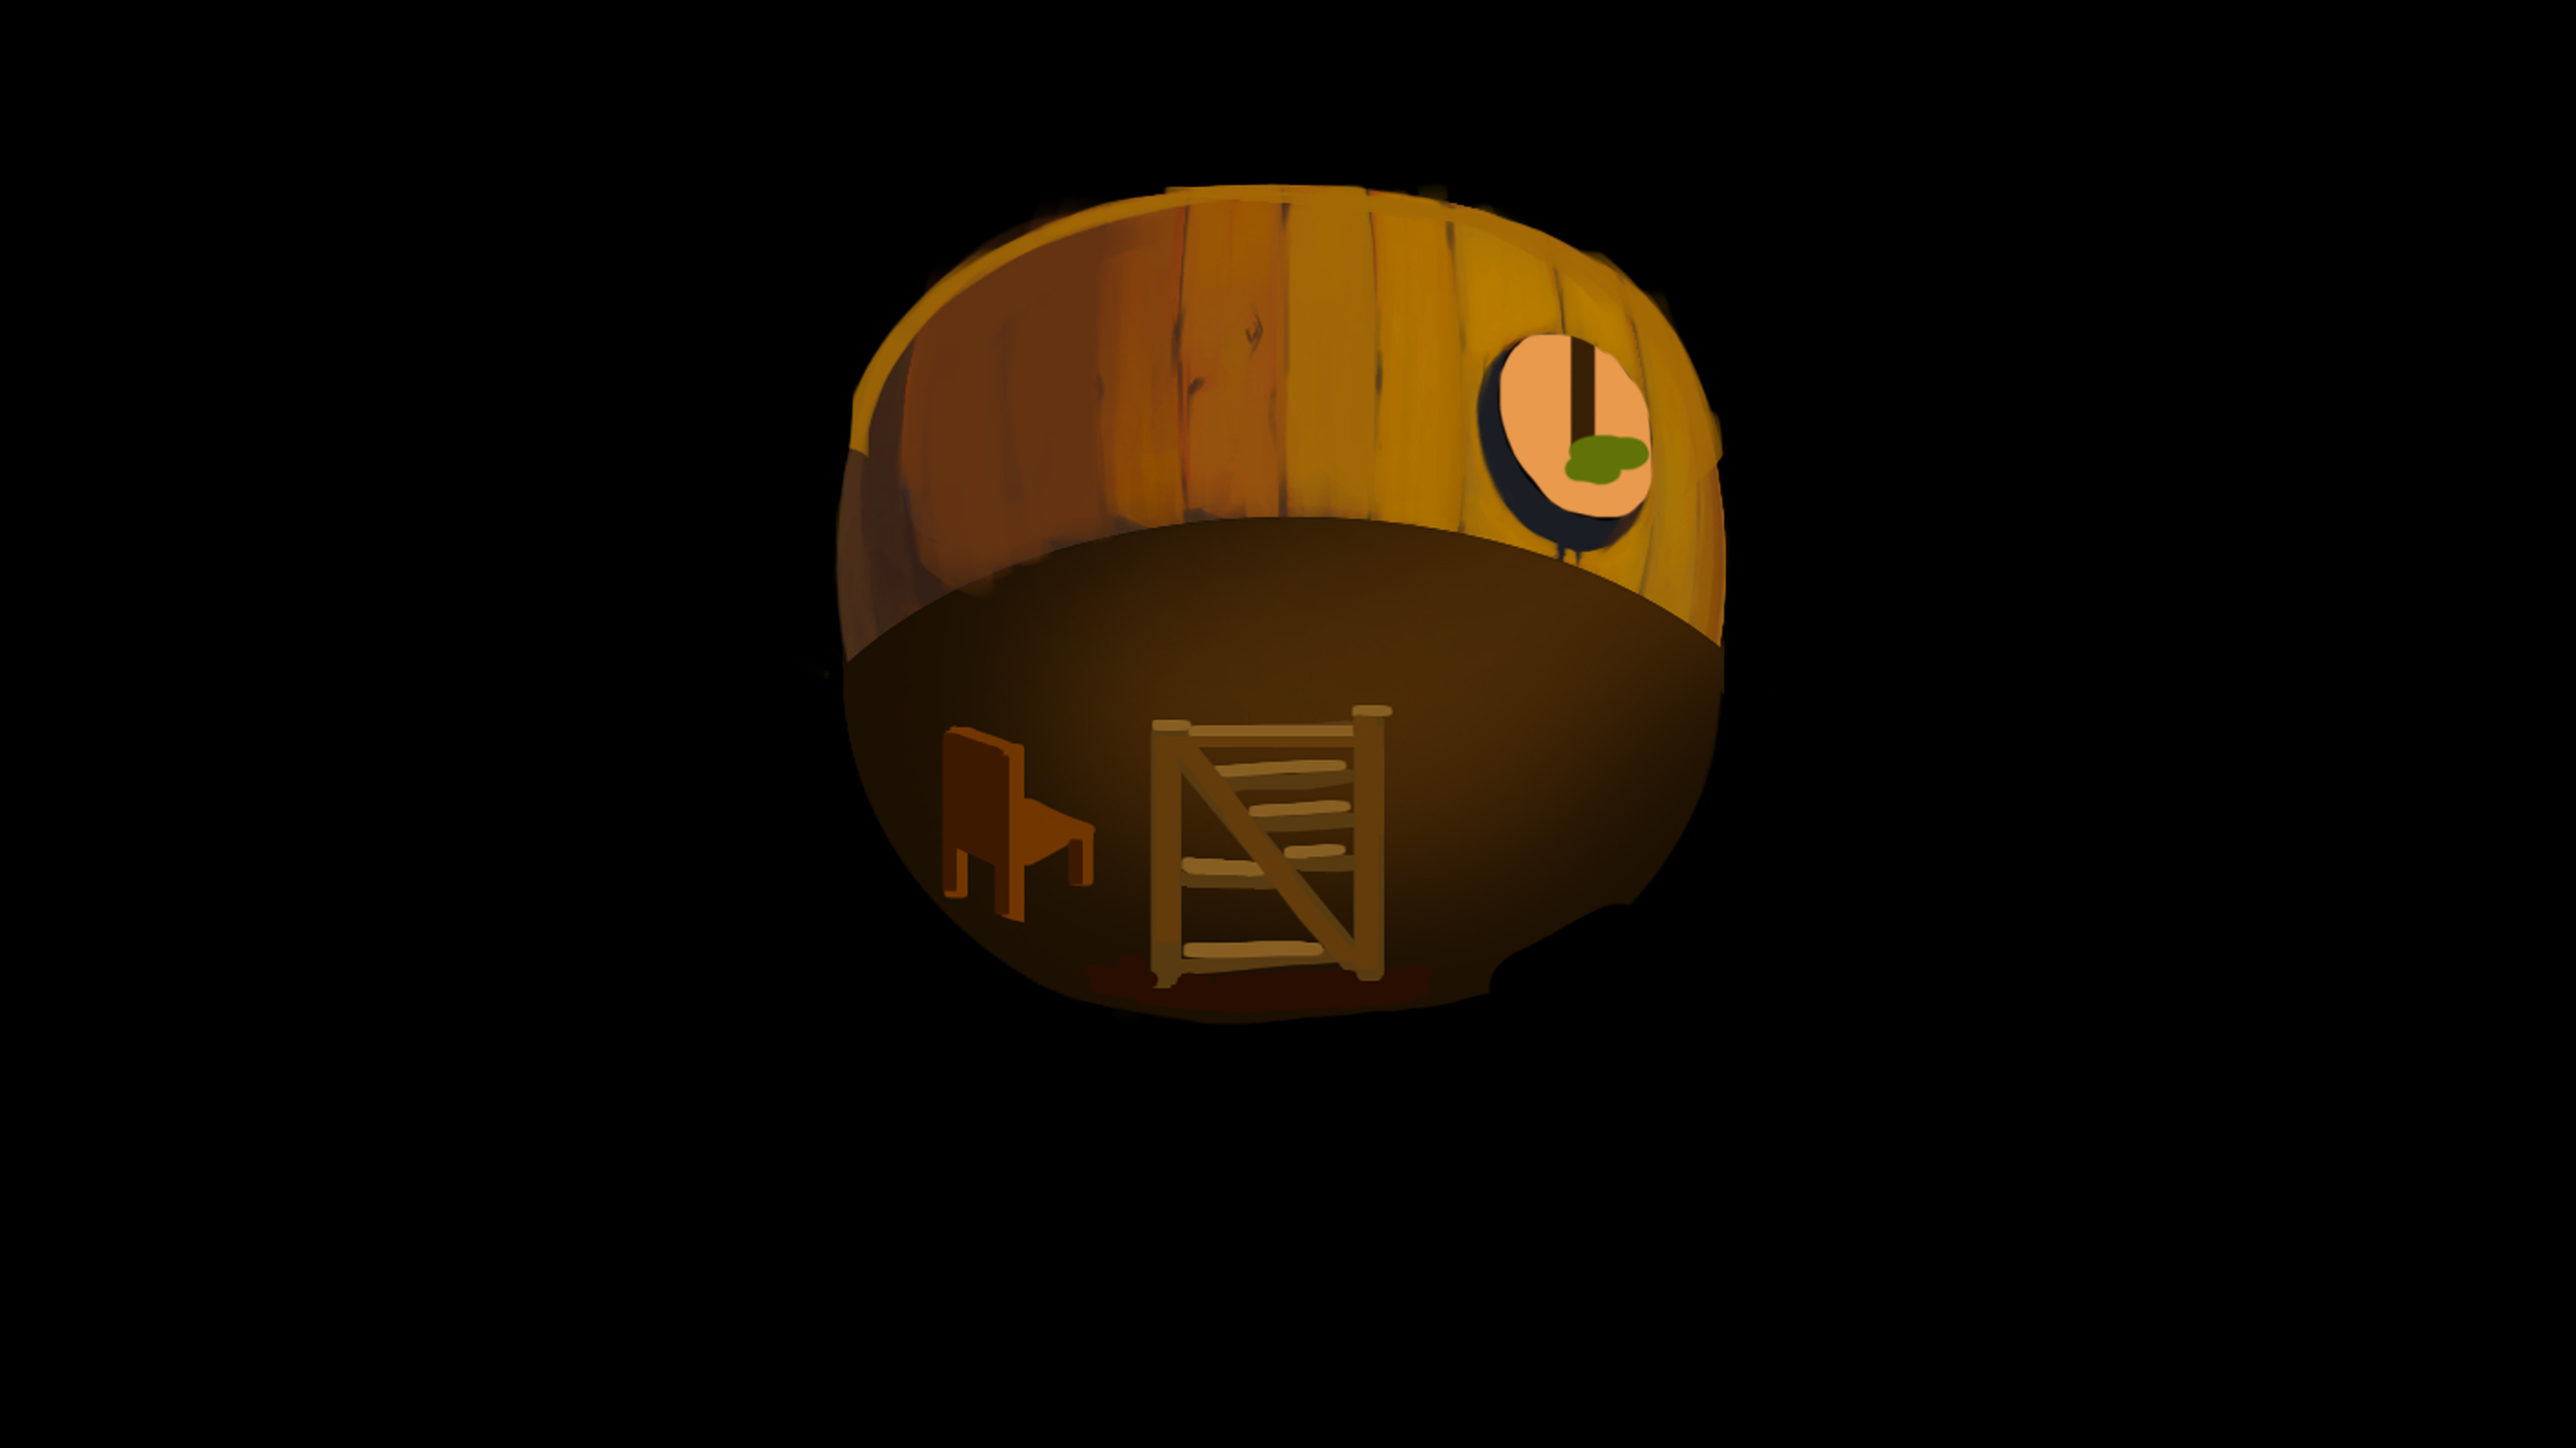
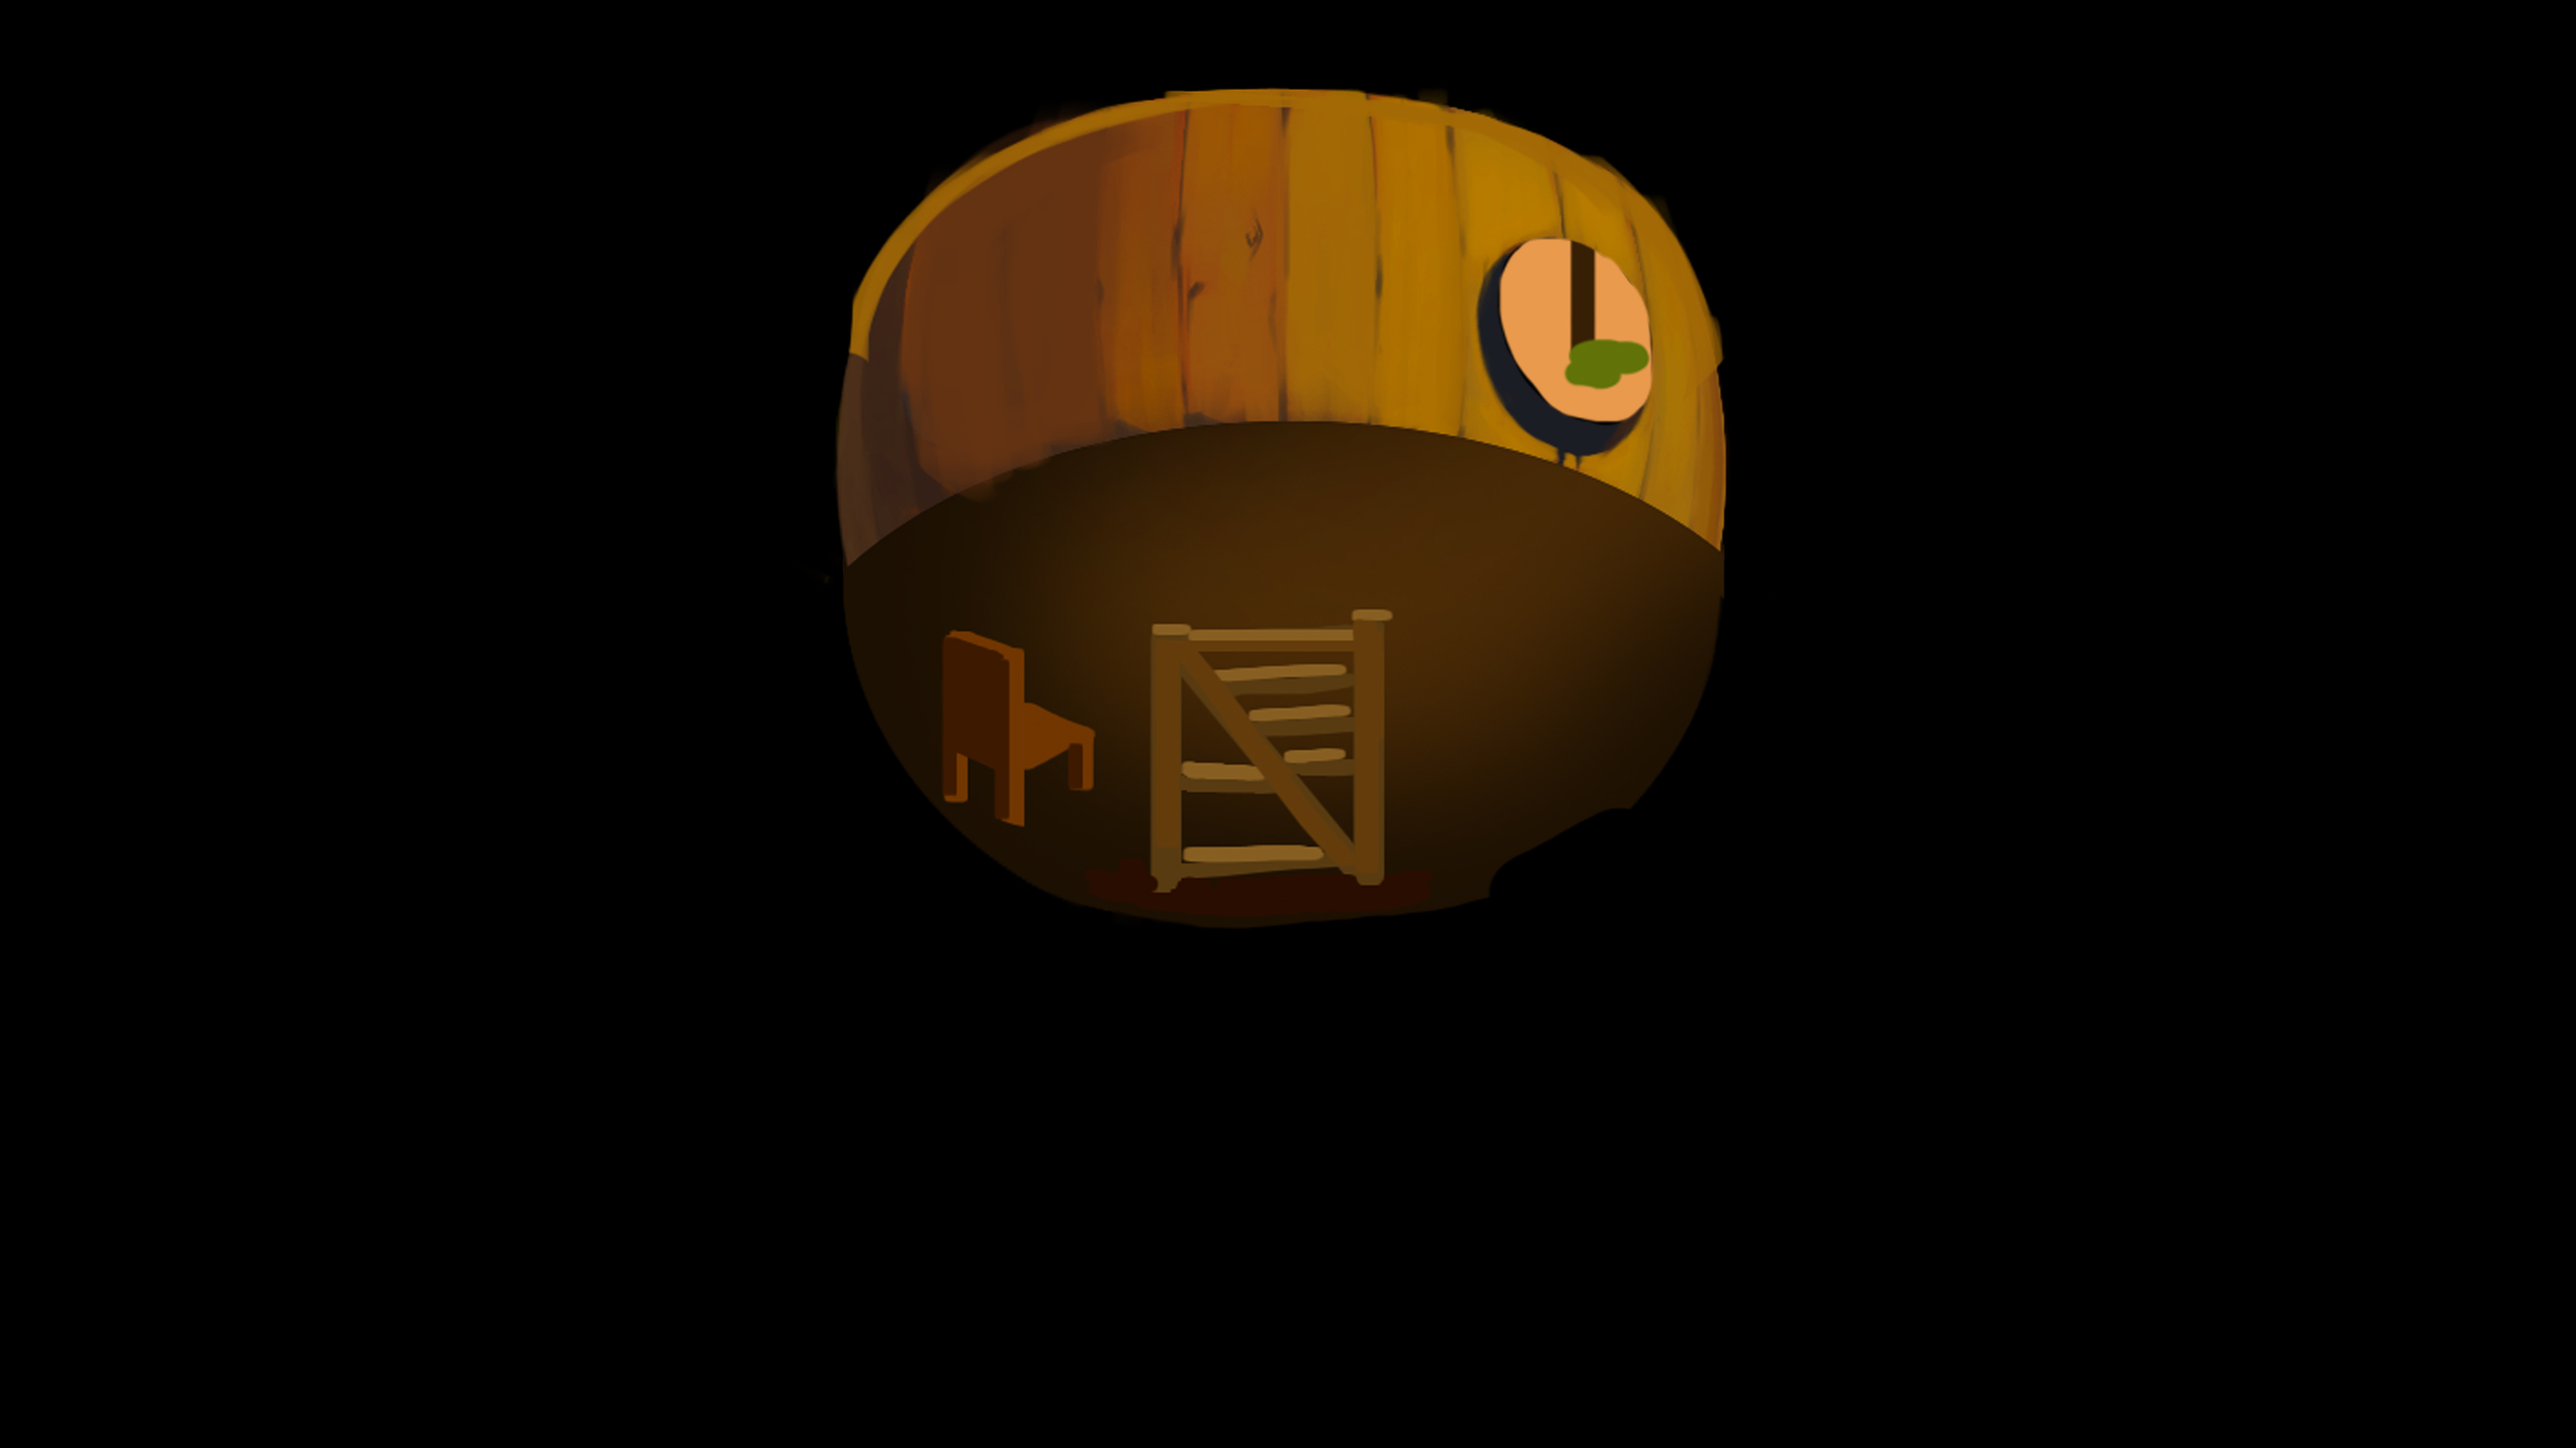
fix (movment): Fix movment in Alfrd's House
see above

Changed region(s): [[0.3123, 0.0621, 0.687, 0.7145]]

diff --git a/Scripts/Isometric2D.rb b/Scripts/Isometric2D.rb
@@ -10,7 +10,6 @@ class Sprite_Character < Sprite_Base
 
   def initialize(viewport, character = nil)
     super(viewport)
-    #@debug = QDebug.new
     @character = character
     @balloon_duration = 0
     @character_bitmap_name = ''
@@ -108,7 +107,6 @@ class Game_CharacterBase
   # * Initialize Public Member Variables
   #--------------------------------------------------------------------------
   def init_public_members
-    #@debug = QDebug.new
     @id = 0
     @x = 0
     @y = 0
@@ -138,12 +136,16 @@ class Game_CharacterBase
   # * Get Screen X-Coordinates
   #--------------------------------------------------------------------------
   def screen_x
+    p "screen_x"
+    p @real_x.to_s
     ($game_map.adjust_x(@real_x) - $game_map.adjust_y(@real_y)) * TILE_WIDTH_HALF + (Graphics.width / 2)
   end
   #--------------------------------------------------------------------------
   # * Get Screen Y-Coordinates
   #--------------------------------------------------------------------------
   def screen_y
+    p "screen_y"
+    p @real_y.to_s
     ($game_map.adjust_x(@real_x) + $game_map.adjust_y(@real_y)) * TILE_HEIGHT_HALF + SPACE_BETWEEN_CHARACTERN_PATTERN - jump_height - TILE_HEIGHT_HALF + (Graphics.height / 2)
   end
 
@@ -189,7 +191,6 @@ end
 class Spriteset_Map
 
   def initialize
-    #@debug = QDebug.new
     create_viewports
     create_tilemap
     create_parallax
@@ -229,14 +230,13 @@ end
 
 class Game_Map
 
-  MAP_DATA_OFFSET_X_TO_ADJUST_MAP_ORIGIN = 118
+  TILE_OFFSET_X_IN_MAP_DATA = 2
   MAP_DATA_OFFSET_Y_TO_ADJUST_MAP_ORIGIN = 15
 
   #--------------------------------------------------------------------------
   # * Object Initialization
   #--------------------------------------------------------------------------
   def initialize
-    #@debug = QDebug.new
     @screen = Game_Screen.new
     @interpreter = Game_Interpreter.new
     @map_id = 0
@@ -375,7 +375,10 @@ class Game_Map
   end
 
   def map_tile_adjust_xy(x, y)
-    tile_x = (2 * (x - y)) + MAP_DATA_OFFSET_X_TO_ADJUST_MAP_ORIGIN
+    parallax_bitmap = Cache.parallax(@parallax_name)
+    map_data_offset_x_to_adjust_map_origin = (parallax_bitmap.width / TILE_WIDTH_HALF) / 2 - TILE_OFFSET_X_IN_MAP_DATA
+
+    tile_x = (2 * (x - y)) + map_data_offset_x_to_adjust_map_origin
     tile_y = (x + y) + MAP_DATA_OFFSET_Y_TO_ADJUST_MAP_ORIGIN
 
     point = Class.new do
@@ -407,7 +410,6 @@ end
 class Game_Player < Game_Character
   def initialize
     super
-    #@debug = QDebug.new
     @vehicle_type = :walk           # Type of vehicle currently being ridden
     @vehicle_getting_on = false     # Boarding vehicle flag
     @vehicle_getting_off = false    # Getting off vehicle flag
@@ -510,14 +512,6 @@ class Game_Player < Game_Character
 end
 
 class Game_Event
-  def initialize(map_id, event)
-    super()
-    @map_id = map_id
-    @event = event
-    @id = @event.id
-    moveto(@event.x, @event.y)
-    refresh
-  end
 
   #--------------------------------------------------------------------------
   # * Determine if Near Visible Area of Screen
@@ -529,4 +523,13 @@ class Game_Event
     ay = ($game_map.adjust_x(@real_x) + $game_map.adjust_y(@real_y)) - Graphics.height / 2 / TILE_HEIGHT
     ax >= -dx && ax <= dx && ay >= -dy && ay <= dy
   end
+end
+
+
+class Tilemap
+
+  def update
+    
+  end
+
 end
